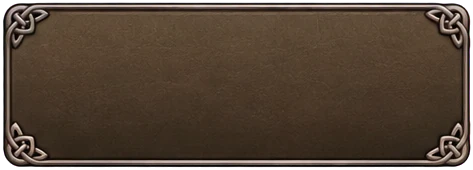
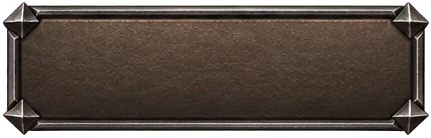
v4.91 框和按鈕改成叉叉鈕風格（斜切角＋金字塔尖刺，拿掉捲曲繩結）
Claude-Session: https://claude.ai/code/session_01SeUeF3GZXFJm3dfT74oQ9s

diff --git a/index.html b/index.html
@@ -2004,17 +2004,17 @@ body.dpv .hero .dp-firelit{position:absolute;inset:0;z-index:1;pointer-events:no
 .kvgrid [class*="elc-"]{color:var(--ec)}   /* v4.76 村莊詳情的屬性、弱點用屬性顏色 */
 
 /* v4.91 Mochi：程式畫的框線看起來廉價 → 沒有皮膚槽位的元件也換成 AI 細線框（素材 art/ui/ui491_*，皮膚槽位設定在 skin.js）
-   框：fr 暗銅／fr_on 金（選中）／fr_red 紅（危險）／fr_off 灰（鎖住、停用），角落雕花一樣大（15px）；fl* 是沒有雕花的細線框，給小元件用；cap* 是膠囊 */
+   框：fr 暗銅／fr_on 金（選中）／fr_red 紅（危險）／fr_off 灰（鎖住、停用），斜切角尖刺一樣大（10px）；fl* 是沒有雕花的細線框，給小元件用；cap* 是膠囊 */
 .sheet,.modal-card,.info-body{scrollbar-width:none}.sheet::-webkit-scrollbar,.modal-card::-webkit-scrollbar,.info-body::-webkit-scrollbar{display:none}   /* 小卡內容稍微超出時不顯示旁邊的捲動條（還是可以滑） */
-.wt:not(#_),.wt:is(.l0b,.l1b,.l2b,.l3b,.l4b,.l5b,.l6b,.posted):not(#_),.sg-day:not(#_),.matbox:not(#_),.wp-g>*:not(#_){border-color:transparent;border-image:url(art/ui/ui491_fr.webp) 50 / 15px stretch;box-shadow:none}
+.wt:not(#_),.wt:is(.l0b,.l1b,.l2b,.l3b,.l4b,.l5b,.l6b,.posted):not(#_),.sg-day:not(#_),.matbox:not(#_),.wp-g>*:not(#_){border-color:transparent;border-image:url(art/ui/ui491_fr.webp) 40 / 10px stretch;box-shadow:none}
 .wt.on:not(#_),.sg-day.today:not(#_){outline:none;border-image-source:url(art/ui/ui491_fr_on.webp)}
-.ev-st:not(#_),.enh-stage:not(#_){border-color:transparent;border-image:url(art/ui/ui491_fl.webp) 24 / 8px stretch;box-shadow:none}   /* 石碑和上面的數值格不加雕花，避免框裡套框太雜 */
+.ev-st:not(#_),.enh-stage:not(#_){border-color:transparent;border-image:url(art/ui/ui491_fl.webp) 38 / 9px stretch;box-shadow:none}   /* 石碑和上面的數值格不加雕花，避免框裡套框太雜 */
 .ev-st.risk:not(#_),.enh-stage.danger:not(#_){border-image-source:url(art/ui/ui491_fl_red.webp)}
-.ev-warn.risk:not(#_){border-color:transparent;border-image:url(art/ui/ui491_fl_red.webp) 24 / 8px stretch}
-.enh-more:not(#_),.cbar-in:not(#_){border-color:transparent;border-image:url(art/ui/ui491_fl.webp) 24 / 8px stretch;box-shadow:none}
-.vlocked:not(#_){border-style:solid;border-color:transparent;border-image:url(art/ui/ui491_fr_off.webp) 50 / 15px stretch}
-.ach-rw:not(#_),.res .chip:not(#_){border-color:transparent;border-image:url(art/ui/ui491_cap.webp) 53 / 30px stretch;background:#15110d;box-shadow:none}
-.sel select:not(#_){appearance:none;-webkit-appearance:none;border-color:transparent;border-image:url(art/ui/ui491_fl.webp) 24 / 8px stretch;background:url(art/ui/ui491_chev.webp) right 10px center/10px auto no-repeat,#15110d;padding-right:28px}
+.ev-warn.risk:not(#_){border-color:transparent;border-image:url(art/ui/ui491_fl_red.webp) 38 / 9px stretch}
+.enh-more:not(#_),.cbar-in:not(#_){border-color:transparent;border-image:url(art/ui/ui491_fl.webp) 38 / 9px stretch;box-shadow:none}
+.vlocked:not(#_){border-style:solid;border-color:transparent;border-image:url(art/ui/ui491_fr_off.webp) 40 / 10px stretch}
+.ach-rw:not(#_),.res .chip:not(#_){border-color:transparent;border-image:url(art/ui/ui491_cap.webp) 55 / 30px stretch;background:#15110d;box-shadow:none}
+.sel select:not(#_){appearance:none;-webkit-appearance:none;border-color:transparent;border-image:url(art/ui/ui491_fl.webp) 38 / 9px stretch;background:url(art/ui/ui491_chev.webp) right 10px center/10px auto no-repeat,#15110d;padding-right:28px}
 .sel select option{background:#16110d;color:var(--bone)}
 .info-btn:not(#_){border-color:transparent;background:url(art/ui/ui491_info.webp) center/100% 100% no-repeat;box-shadow:none}
 .wp-g>*:not(#_){padding:9px 13px}
@@ -2052,34 +2052,34 @@ body.dpv .hero .dp-firelit{position:absolute;inset:0;z-index:1;pointer-events:no
  * ===================================================================== */
 const UI_SKIN={
   // v4.91 Mochi：程式畫的框和按鈕看起來很廉價 → 換成 AI 細線框（拼圖：/mnt/project-files/ui-skin/v4.91/整合版_*）
-  //   規則：雕花只在四個角，所有元件的角落雕花都一樣大（圖框繪製寬度 ÷ 切片 ≈ 0.3）；框中間是空的，保留元件原本的深色底（Mochi：皮革底紋很醜，不用）
-  'btn-primary':{src:'art/ui/ui491_b_pri.webp',slice:[52,52,52,52],width:[15,15,15,15],css:'text-shadow:0 1px 2px #000,0 0 4px rgba(0,0,0,.85);padding-left:16px;padding-right:16px'},  'btn-primary:pressed':{src:'art/ui/ui491_b_pri_p.webp'},  'btn-primary:disabled':{src:'art/ui/ui491_b_pri_d.webp',css:'filter:none;opacity:1;color:#bdb3a2;text-shadow:0 1px 2px #000,0 0 4px rgba(0,0,0,.85)'},
-  'btn-primary-big':{src:'art/ui/ui491_b_pri.webp',slice:[52,52,52,52],width:[15,15,15,15],css:'text-shadow:0 1px 2px #000,0 0 4px rgba(0,0,0,.85);padding-left:16px;padding-right:16px'},  'btn-primary-big:pressed':{src:'art/ui/ui491_b_pri_p.webp'},  'btn-primary-big:disabled':{src:'art/ui/ui491_b_pri_d.webp',css:'filter:none;opacity:1;color:#bdb3a2;text-shadow:0 1px 2px #000,0 0 4px rgba(0,0,0,.85)'},
-  'btn-primary-compact':{src:'art/ui/ui491_b_pri.webp',slice:[52,52,52,52],width:[15,15,15,15],css:'text-shadow:0 1px 2px #000,0 0 4px rgba(0,0,0,.85);padding-left:16px;padding-right:16px'},  'btn-primary-compact:pressed':{src:'art/ui/ui491_b_pri_p.webp'},  'btn-primary-compact:disabled':{src:'art/ui/ui491_b_pri_d.webp',css:'filter:none;opacity:1;color:#bdb3a2;text-shadow:0 1px 2px #000,0 0 4px rgba(0,0,0,.85)'},
-  'btn-secondary':{src:'art/ui/ui491_b_sec.webp',slice:[52,52,52,52],width:[15,15,15,15],css:'text-shadow:0 1px 2px #000,0 0 4px rgba(0,0,0,.85);padding-left:16px;padding-right:16px'},  'btn-secondary:pressed':{src:'art/ui/ui491_b_sec_p.webp'},  'btn-secondary:disabled':{src:'art/ui/ui491_b_sec_d.webp',css:'filter:none;opacity:1;color:#bdb3a2;text-shadow:0 1px 2px #000,0 0 4px rgba(0,0,0,.85)'},
-  'btn-secondary-big':{src:'art/ui/ui491_b_sec.webp',slice:[52,52,52,52],width:[15,15,15,15],css:'text-shadow:0 1px 2px #000,0 0 4px rgba(0,0,0,.85);padding-left:16px;padding-right:16px'},  'btn-secondary-big:pressed':{src:'art/ui/ui491_b_sec_p.webp'},  'btn-secondary-big:disabled':{src:'art/ui/ui491_b_sec_d.webp',css:'filter:none;opacity:1;color:#bdb3a2;text-shadow:0 1px 2px #000,0 0 4px rgba(0,0,0,.85)'},
-  'btn-secondary-compact':{src:'art/ui/ui491_b_sec.webp',slice:[52,52,52,52],width:[15,15,15,15],css:'text-shadow:0 1px 2px #000,0 0 4px rgba(0,0,0,.85);padding-left:16px;padding-right:16px'},  'btn-secondary-compact:pressed':{src:'art/ui/ui491_b_sec_p.webp'},  'btn-secondary-compact:disabled':{src:'art/ui/ui491_b_sec_d.webp',css:'filter:none;opacity:1;color:#bdb3a2;text-shadow:0 1px 2px #000,0 0 4px rgba(0,0,0,.85)'},
-  'btn-danger':{src:'art/ui/ui491_b_dan.webp',slice:[52,52,52,52],width:[15,15,15,15],css:'text-shadow:0 1px 2px #000,0 0 4px rgba(0,0,0,.85);padding-left:16px;padding-right:16px'},  'btn-danger:pressed':{src:'art/ui/ui491_b_dan_p.webp'},  'btn-danger:disabled':{src:'art/ui/ui491_b_dan_d.webp',css:'filter:none;opacity:1;color:#bdb3a2;text-shadow:0 1px 2px #000,0 0 4px rgba(0,0,0,.85)'},
-  'btn-danger-big':{src:'art/ui/ui491_b_dan.webp',slice:[52,52,52,52],width:[15,15,15,15],css:'text-shadow:0 1px 2px #000,0 0 4px rgba(0,0,0,.85);padding-left:16px;padding-right:16px'},  'btn-danger-big:pressed':{src:'art/ui/ui491_b_dan_p.webp'},  'btn-danger-big:disabled':{src:'art/ui/ui491_b_dan_d.webp',css:'filter:none;opacity:1;color:#bdb3a2;text-shadow:0 1px 2px #000,0 0 4px rgba(0,0,0,.85)'},
-  'btn-danger-compact':{src:'art/ui/ui491_b_dan.webp',slice:[52,52,52,52],width:[15,15,15,15],css:'text-shadow:0 1px 2px #000,0 0 4px rgba(0,0,0,.85);padding-left:16px;padding-right:16px'},  'btn-danger-compact:pressed':{src:'art/ui/ui491_b_dan_p.webp'},  'btn-danger-compact:disabled':{src:'art/ui/ui491_b_dan_d.webp',css:'filter:none;opacity:1;color:#bdb3a2;text-shadow:0 1px 2px #000,0 0 4px rgba(0,0,0,.85)'},
-  'btn-chip':{src:'art/ui/ui491_cap.webp',slice:[53,53,53,53],width:[30,30,30,30],fill:false,css:'background:#15110d'},  'btn-chip:on':{src:'art/ui/ui491_cap_on.webp',css:'color:var(--gold-hi)'},
-  'btn-toggle':{src:'art/ui/ui491_fr.webp',slice:[50,50,50,50],width:[15,15,15,15],fill:false,bg:true},  'btn-toggle:on':{src:'art/ui/ui491_fr_on.webp'},
+  //   規則（Mochi：要像叉叉按鈕，不要捲曲繩結）：斜切角＋小金字塔尖刺只在四個角，所有元件的尖刺一樣大（圖框繪製寬度 ÷ 切片 ≈ 0.26）；框中間是空的，保留元件原本的深色底（Mochi：皮革底紋很醜，不用）
+  'btn-primary':{src:'art/ui/ui491_b_pri.webp',slice:[40,40,40,40],width:[11,11,11,11],css:'text-shadow:0 1px 2px #000,0 0 4px rgba(0,0,0,.85);padding-left:16px;padding-right:16px'},  'btn-primary:pressed':{src:'art/ui/ui491_b_pri_p.webp'},  'btn-primary:disabled':{src:'art/ui/ui491_b_pri_d.webp',css:'filter:none;opacity:1;color:#bdb3a2;text-shadow:0 1px 2px #000,0 0 4px rgba(0,0,0,.85)'},
+  'btn-primary-big':{src:'art/ui/ui491_b_pri.webp',slice:[40,40,40,40],width:[11,11,11,11],css:'text-shadow:0 1px 2px #000,0 0 4px rgba(0,0,0,.85);padding-left:16px;padding-right:16px'},  'btn-primary-big:pressed':{src:'art/ui/ui491_b_pri_p.webp'},  'btn-primary-big:disabled':{src:'art/ui/ui491_b_pri_d.webp',css:'filter:none;opacity:1;color:#bdb3a2;text-shadow:0 1px 2px #000,0 0 4px rgba(0,0,0,.85)'},
+  'btn-primary-compact':{src:'art/ui/ui491_b_pri.webp',slice:[40,40,40,40],width:[11,11,11,11],css:'text-shadow:0 1px 2px #000,0 0 4px rgba(0,0,0,.85);padding-left:16px;padding-right:16px'},  'btn-primary-compact:pressed':{src:'art/ui/ui491_b_pri_p.webp'},  'btn-primary-compact:disabled':{src:'art/ui/ui491_b_pri_d.webp',css:'filter:none;opacity:1;color:#bdb3a2;text-shadow:0 1px 2px #000,0 0 4px rgba(0,0,0,.85)'},
+  'btn-secondary':{src:'art/ui/ui491_b_sec.webp',slice:[40,40,40,40],width:[11,11,11,11],css:'text-shadow:0 1px 2px #000,0 0 4px rgba(0,0,0,.85);padding-left:16px;padding-right:16px'},  'btn-secondary:pressed':{src:'art/ui/ui491_b_sec_p.webp'},  'btn-secondary:disabled':{src:'art/ui/ui491_b_sec_d.webp',css:'filter:none;opacity:1;color:#bdb3a2;text-shadow:0 1px 2px #000,0 0 4px rgba(0,0,0,.85)'},
+  'btn-secondary-big':{src:'art/ui/ui491_b_sec.webp',slice:[40,40,40,40],width:[11,11,11,11],css:'text-shadow:0 1px 2px #000,0 0 4px rgba(0,0,0,.85);padding-left:16px;padding-right:16px'},  'btn-secondary-big:pressed':{src:'art/ui/ui491_b_sec_p.webp'},  'btn-secondary-big:disabled':{src:'art/ui/ui491_b_sec_d.webp',css:'filter:none;opacity:1;color:#bdb3a2;text-shadow:0 1px 2px #000,0 0 4px rgba(0,0,0,.85)'},
+  'btn-secondary-compact':{src:'art/ui/ui491_b_sec.webp',slice:[40,40,40,40],width:[11,11,11,11],css:'text-shadow:0 1px 2px #000,0 0 4px rgba(0,0,0,.85);padding-left:16px;padding-right:16px'},  'btn-secondary-compact:pressed':{src:'art/ui/ui491_b_sec_p.webp'},  'btn-secondary-compact:disabled':{src:'art/ui/ui491_b_sec_d.webp',css:'filter:none;opacity:1;color:#bdb3a2;text-shadow:0 1px 2px #000,0 0 4px rgba(0,0,0,.85)'},
+  'btn-danger':{src:'art/ui/ui491_b_dan.webp',slice:[40,40,40,40],width:[11,11,11,11],css:'text-shadow:0 1px 2px #000,0 0 4px rgba(0,0,0,.85);padding-left:16px;padding-right:16px'},  'btn-danger:pressed':{src:'art/ui/ui491_b_dan_p.webp'},  'btn-danger:disabled':{src:'art/ui/ui491_b_dan_d.webp',css:'filter:none;opacity:1;color:#bdb3a2;text-shadow:0 1px 2px #000,0 0 4px rgba(0,0,0,.85)'},
+  'btn-danger-big':{src:'art/ui/ui491_b_dan.webp',slice:[40,40,40,40],width:[11,11,11,11],css:'text-shadow:0 1px 2px #000,0 0 4px rgba(0,0,0,.85);padding-left:16px;padding-right:16px'},  'btn-danger-big:pressed':{src:'art/ui/ui491_b_dan_p.webp'},  'btn-danger-big:disabled':{src:'art/ui/ui491_b_dan_d.webp',css:'filter:none;opacity:1;color:#bdb3a2;text-shadow:0 1px 2px #000,0 0 4px rgba(0,0,0,.85)'},
+  'btn-danger-compact':{src:'art/ui/ui491_b_dan.webp',slice:[40,40,40,40],width:[11,11,11,11],css:'text-shadow:0 1px 2px #000,0 0 4px rgba(0,0,0,.85);padding-left:16px;padding-right:16px'},  'btn-danger-compact:pressed':{src:'art/ui/ui491_b_dan_p.webp'},  'btn-danger-compact:disabled':{src:'art/ui/ui491_b_dan_d.webp',css:'filter:none;opacity:1;color:#bdb3a2;text-shadow:0 1px 2px #000,0 0 4px rgba(0,0,0,.85)'},
+  'btn-chip':{src:'art/ui/ui491_cap.webp',slice:[55,55,55,55],width:[30,30,30,30],fill:false,css:'background:#15110d'},  'btn-chip:on':{src:'art/ui/ui491_cap_on.webp',css:'color:var(--gold-hi)'},
+  'btn-toggle':{src:'art/ui/ui491_fr.webp',slice:[40,40,40,40],width:[10,10,10,10],fill:false,bg:true},  'btn-toggle:on':{src:'art/ui/ui491_fr_on.webp'},
   'btn-accent':null,            'btn-accent:pressed':null,
   'btn-icon':null,              'btn-icon:pressed':null,
-  'tab':{src:'art/ui/ui491_fr.webp',slice:[50,50,50,50],width:[15,15,15,15],fill:false,bg:true},  'tab:on':{src:'art/ui/ui491_fr_on.webp'},
+  'tab':{src:'art/ui/ui491_fr.webp',slice:[40,40,40,40],width:[10,10,10,10],fill:false,bg:true},  'tab:on':{src:'art/ui/ui491_fr_on.webp'},
   // 面板與卡片
-  'panel':{src:'art/ui/ui491_fr.webp',slice:[50,50,50,50],width:[15,15,15,15],fill:false,bg:true},
+  'panel':{src:'art/ui/ui491_fr.webp',slice:[40,40,40,40],width:[10,10,10,10],fill:false,bg:true},
   'title':null,
-  'card':{src:'art/ui/ui491_fr.webp',slice:[50,50,50,50],width:[15,15,15,15],fill:false,bg:true},  'card:on':{src:'art/ui/ui491_fr_on.webp'},
-  'card-compact':{src:'art/ui/ui491_fr.webp',slice:[50,50,50,50],width:[15,15,15,15],fill:false,bg:true},  'card-compact:on':{src:'art/ui/ui491_fr_on.webp'},
+  'card':{src:'art/ui/ui491_fr.webp',slice:[40,40,40,40],width:[10,10,10,10],fill:false,bg:true},  'card:on':{src:'art/ui/ui491_fr_on.webp'},
+  'card-compact':{src:'art/ui/ui491_fr.webp',slice:[40,40,40,40],width:[10,10,10,10],fill:false,bg:true},  'card-compact:on':{src:'art/ui/ui491_fr_on.webp'},
   'card-feature':null,
-  'card-option':{src:'art/ui/ui491_fr.webp',slice:[50,50,50,50],width:[15,15,15,15],fill:false,bg:true},  'card-option:on':{src:'art/ui/ui491_fr_on.webp'},
-  'card-row':{src:'art/ui/ui491_fr.webp',slice:[50,50,50,50],width:[15,15,15,15],fill:false,bg:true},
+  'card-option':{src:'art/ui/ui491_fr.webp',slice:[40,40,40,40],width:[10,10,10,10],fill:false,bg:true},  'card-option:on':{src:'art/ui/ui491_fr_on.webp'},
+  'card-row':{src:'art/ui/ui491_fr.webp',slice:[40,40,40,40],width:[10,10,10,10],fill:false,bg:true},
   'badge':null,
   'prog':null,                  'prog-fill':null,
   // 視窗與常駐列
-  'sheet':{src:'art/ui/ui491_fr_modal.webp',slice:[50,50,50,50],width:[17,17,17,17],fill:false,bg:true},
-  'modal':{src:'art/ui/ui491_fr_modal.webp',slice:[50,50,50,50],width:[17,17,17,17],fill:false,bg:true},
+  'sheet':{src:'art/ui/ui491_fr.webp',slice:[40,40,40,40],width:[11,11,11,11],fill:false,bg:true},
+  'modal':{src:'art/ui/ui491_fr.webp',slice:[40,40,40,40],width:[11,11,11,11],fill:false,bg:true},
   'toast':null,
   'topbar':null,
   'navbar':null,

diff --git a/src/skin.js b/src/skin.js
@@ -21,34 +21,34 @@
  * ===================================================================== */
 const UI_SKIN={
   // v4.91 Mochi：程式畫的框和按鈕看起來很廉價 → 換成 AI 細線框（拼圖：/mnt/project-files/ui-skin/v4.91/整合版_*）
-  //   規則：雕花只在四個角，所有元件的角落雕花都一樣大（圖框繪製寬度 ÷ 切片 ≈ 0.3）；框中間是空的，保留元件原本的深色底（Mochi：皮革底紋很醜，不用）
-  'btn-primary':{src:'art/ui/ui491_b_pri.webp',slice:[52,52,52,52],width:[15,15,15,15],css:'text-shadow:0 1px 2px #000,0 0 4px rgba(0,0,0,.85);padding-left:16px;padding-right:16px'},  'btn-primary:pressed':{src:'art/ui/ui491_b_pri_p.webp'},  'btn-primary:disabled':{src:'art/ui/ui491_b_pri_d.webp',css:'filter:none;opacity:1;color:#bdb3a2;text-shadow:0 1px 2px #000,0 0 4px rgba(0,0,0,.85)'},
-  'btn-primary-big':{src:'art/ui/ui491_b_pri.webp',slice:[52,52,52,52],width:[15,15,15,15],css:'text-shadow:0 1px 2px #000,0 0 4px rgba(0,0,0,.85);padding-left:16px;padding-right:16px'},  'btn-primary-big:pressed':{src:'art/ui/ui491_b_pri_p.webp'},  'btn-primary-big:disabled':{src:'art/ui/ui491_b_pri_d.webp',css:'filter:none;opacity:1;color:#bdb3a2;text-shadow:0 1px 2px #000,0 0 4px rgba(0,0,0,.85)'},
-  'btn-primary-compact':{src:'art/ui/ui491_b_pri.webp',slice:[52,52,52,52],width:[15,15,15,15],css:'text-shadow:0 1px 2px #000,0 0 4px rgba(0,0,0,.85);padding-left:16px;padding-right:16px'},  'btn-primary-compact:pressed':{src:'art/ui/ui491_b_pri_p.webp'},  'btn-primary-compact:disabled':{src:'art/ui/ui491_b_pri_d.webp',css:'filter:none;opacity:1;color:#bdb3a2;text-shadow:0 1px 2px #000,0 0 4px rgba(0,0,0,.85)'},
-  'btn-secondary':{src:'art/ui/ui491_b_sec.webp',slice:[52,52,52,52],width:[15,15,15,15],css:'text-shadow:0 1px 2px #000,0 0 4px rgba(0,0,0,.85);padding-left:16px;padding-right:16px'},  'btn-secondary:pressed':{src:'art/ui/ui491_b_sec_p.webp'},  'btn-secondary:disabled':{src:'art/ui/ui491_b_sec_d.webp',css:'filter:none;opacity:1;color:#bdb3a2;text-shadow:0 1px 2px #000,0 0 4px rgba(0,0,0,.85)'},
-  'btn-secondary-big':{src:'art/ui/ui491_b_sec.webp',slice:[52,52,52,52],width:[15,15,15,15],css:'text-shadow:0 1px 2px #000,0 0 4px rgba(0,0,0,.85);padding-left:16px;padding-right:16px'},  'btn-secondary-big:pressed':{src:'art/ui/ui491_b_sec_p.webp'},  'btn-secondary-big:disabled':{src:'art/ui/ui491_b_sec_d.webp',css:'filter:none;opacity:1;color:#bdb3a2;text-shadow:0 1px 2px #000,0 0 4px rgba(0,0,0,.85)'},
-  'btn-secondary-compact':{src:'art/ui/ui491_b_sec.webp',slice:[52,52,52,52],width:[15,15,15,15],css:'text-shadow:0 1px 2px #000,0 0 4px rgba(0,0,0,.85);padding-left:16px;padding-right:16px'},  'btn-secondary-compact:pressed':{src:'art/ui/ui491_b_sec_p.webp'},  'btn-secondary-compact:disabled':{src:'art/ui/ui491_b_sec_d.webp',css:'filter:none;opacity:1;color:#bdb3a2;text-shadow:0 1px 2px #000,0 0 4px rgba(0,0,0,.85)'},
-  'btn-danger':{src:'art/ui/ui491_b_dan.webp',slice:[52,52,52,52],width:[15,15,15,15],css:'text-shadow:0 1px 2px #000,0 0 4px rgba(0,0,0,.85);padding-left:16px;padding-right:16px'},  'btn-danger:pressed':{src:'art/ui/ui491_b_dan_p.webp'},  'btn-danger:disabled':{src:'art/ui/ui491_b_dan_d.webp',css:'filter:none;opacity:1;color:#bdb3a2;text-shadow:0 1px 2px #000,0 0 4px rgba(0,0,0,.85)'},
-  'btn-danger-big':{src:'art/ui/ui491_b_dan.webp',slice:[52,52,52,52],width:[15,15,15,15],css:'text-shadow:0 1px 2px #000,0 0 4px rgba(0,0,0,.85);padding-left:16px;padding-right:16px'},  'btn-danger-big:pressed':{src:'art/ui/ui491_b_dan_p.webp'},  'btn-danger-big:disabled':{src:'art/ui/ui491_b_dan_d.webp',css:'filter:none;opacity:1;color:#bdb3a2;text-shadow:0 1px 2px #000,0 0 4px rgba(0,0,0,.85)'},
-  'btn-danger-compact':{src:'art/ui/ui491_b_dan.webp',slice:[52,52,52,52],width:[15,15,15,15],css:'text-shadow:0 1px 2px #000,0 0 4px rgba(0,0,0,.85);padding-left:16px;padding-right:16px'},  'btn-danger-compact:pressed':{src:'art/ui/ui491_b_dan_p.webp'},  'btn-danger-compact:disabled':{src:'art/ui/ui491_b_dan_d.webp',css:'filter:none;opacity:1;color:#bdb3a2;text-shadow:0 1px 2px #000,0 0 4px rgba(0,0,0,.85)'},
-  'btn-chip':{src:'art/ui/ui491_cap.webp',slice:[53,53,53,53],width:[30,30,30,30],fill:false,css:'background:#15110d'},  'btn-chip:on':{src:'art/ui/ui491_cap_on.webp',css:'color:var(--gold-hi)'},
-  'btn-toggle':{src:'art/ui/ui491_fr.webp',slice:[50,50,50,50],width:[15,15,15,15],fill:false,bg:true},  'btn-toggle:on':{src:'art/ui/ui491_fr_on.webp'},
+  //   規則（Mochi：要像叉叉按鈕，不要捲曲繩結）：斜切角＋小金字塔尖刺只在四個角，所有元件的尖刺一樣大（圖框繪製寬度 ÷ 切片 ≈ 0.26）；框中間是空的，保留元件原本的深色底（Mochi：皮革底紋很醜，不用）
+  'btn-primary':{src:'art/ui/ui491_b_pri.webp',slice:[40,40,40,40],width:[11,11,11,11],css:'text-shadow:0 1px 2px #000,0 0 4px rgba(0,0,0,.85);padding-left:16px;padding-right:16px'},  'btn-primary:pressed':{src:'art/ui/ui491_b_pri_p.webp'},  'btn-primary:disabled':{src:'art/ui/ui491_b_pri_d.webp',css:'filter:none;opacity:1;color:#bdb3a2;text-shadow:0 1px 2px #000,0 0 4px rgba(0,0,0,.85)'},
+  'btn-primary-big':{src:'art/ui/ui491_b_pri.webp',slice:[40,40,40,40],width:[11,11,11,11],css:'text-shadow:0 1px 2px #000,0 0 4px rgba(0,0,0,.85);padding-left:16px;padding-right:16px'},  'btn-primary-big:pressed':{src:'art/ui/ui491_b_pri_p.webp'},  'btn-primary-big:disabled':{src:'art/ui/ui491_b_pri_d.webp',css:'filter:none;opacity:1;color:#bdb3a2;text-shadow:0 1px 2px #000,0 0 4px rgba(0,0,0,.85)'},
+  'btn-primary-compact':{src:'art/ui/ui491_b_pri.webp',slice:[40,40,40,40],width:[11,11,11,11],css:'text-shadow:0 1px 2px #000,0 0 4px rgba(0,0,0,.85);padding-left:16px;padding-right:16px'},  'btn-primary-compact:pressed':{src:'art/ui/ui491_b_pri_p.webp'},  'btn-primary-compact:disabled':{src:'art/ui/ui491_b_pri_d.webp',css:'filter:none;opacity:1;color:#bdb3a2;text-shadow:0 1px 2px #000,0 0 4px rgba(0,0,0,.85)'},
+  'btn-secondary':{src:'art/ui/ui491_b_sec.webp',slice:[40,40,40,40],width:[11,11,11,11],css:'text-shadow:0 1px 2px #000,0 0 4px rgba(0,0,0,.85);padding-left:16px;padding-right:16px'},  'btn-secondary:pressed':{src:'art/ui/ui491_b_sec_p.webp'},  'btn-secondary:disabled':{src:'art/ui/ui491_b_sec_d.webp',css:'filter:none;opacity:1;color:#bdb3a2;text-shadow:0 1px 2px #000,0 0 4px rgba(0,0,0,.85)'},
+  'btn-secondary-big':{src:'art/ui/ui491_b_sec.webp',slice:[40,40,40,40],width:[11,11,11,11],css:'text-shadow:0 1px 2px #000,0 0 4px rgba(0,0,0,.85);padding-left:16px;padding-right:16px'},  'btn-secondary-big:pressed':{src:'art/ui/ui491_b_sec_p.webp'},  'btn-secondary-big:disabled':{src:'art/ui/ui491_b_sec_d.webp',css:'filter:none;opacity:1;color:#bdb3a2;text-shadow:0 1px 2px #000,0 0 4px rgba(0,0,0,.85)'},
+  'btn-secondary-compact':{src:'art/ui/ui491_b_sec.webp',slice:[40,40,40,40],width:[11,11,11,11],css:'text-shadow:0 1px 2px #000,0 0 4px rgba(0,0,0,.85);padding-left:16px;padding-right:16px'},  'btn-secondary-compact:pressed':{src:'art/ui/ui491_b_sec_p.webp'},  'btn-secondary-compact:disabled':{src:'art/ui/ui491_b_sec_d.webp',css:'filter:none;opacity:1;color:#bdb3a2;text-shadow:0 1px 2px #000,0 0 4px rgba(0,0,0,.85)'},
+  'btn-danger':{src:'art/ui/ui491_b_dan.webp',slice:[40,40,40,40],width:[11,11,11,11],css:'text-shadow:0 1px 2px #000,0 0 4px rgba(0,0,0,.85);padding-left:16px;padding-right:16px'},  'btn-danger:pressed':{src:'art/ui/ui491_b_dan_p.webp'},  'btn-danger:disabled':{src:'art/ui/ui491_b_dan_d.webp',css:'filter:none;opacity:1;color:#bdb3a2;text-shadow:0 1px 2px #000,0 0 4px rgba(0,0,0,.85)'},
+  'btn-danger-big':{src:'art/ui/ui491_b_dan.webp',slice:[40,40,40,40],width:[11,11,11,11],css:'text-shadow:0 1px 2px #000,0 0 4px rgba(0,0,0,.85);padding-left:16px;padding-right:16px'},  'btn-danger-big:pressed':{src:'art/ui/ui491_b_dan_p.webp'},  'btn-danger-big:disabled':{src:'art/ui/ui491_b_dan_d.webp',css:'filter:none;opacity:1;color:#bdb3a2;text-shadow:0 1px 2px #000,0 0 4px rgba(0,0,0,.85)'},
+  'btn-danger-compact':{src:'art/ui/ui491_b_dan.webp',slice:[40,40,40,40],width:[11,11,11,11],css:'text-shadow:0 1px 2px #000,0 0 4px rgba(0,0,0,.85);padding-left:16px;padding-right:16px'},  'btn-danger-compact:pressed':{src:'art/ui/ui491_b_dan_p.webp'},  'btn-danger-compact:disabled':{src:'art/ui/ui491_b_dan_d.webp',css:'filter:none;opacity:1;color:#bdb3a2;text-shadow:0 1px 2px #000,0 0 4px rgba(0,0,0,.85)'},
+  'btn-chip':{src:'art/ui/ui491_cap.webp',slice:[55,55,55,55],width:[30,30,30,30],fill:false,css:'background:#15110d'},  'btn-chip:on':{src:'art/ui/ui491_cap_on.webp',css:'color:var(--gold-hi)'},
+  'btn-toggle':{src:'art/ui/ui491_fr.webp',slice:[40,40,40,40],width:[10,10,10,10],fill:false,bg:true},  'btn-toggle:on':{src:'art/ui/ui491_fr_on.webp'},
   'btn-accent':null,            'btn-accent:pressed':null,
   'btn-icon':null,              'btn-icon:pressed':null,
-  'tab':{src:'art/ui/ui491_fr.webp',slice:[50,50,50,50],width:[15,15,15,15],fill:false,bg:true},  'tab:on':{src:'art/ui/ui491_fr_on.webp'},
+  'tab':{src:'art/ui/ui491_fr.webp',slice:[40,40,40,40],width:[10,10,10,10],fill:false,bg:true},  'tab:on':{src:'art/ui/ui491_fr_on.webp'},
   // 面板與卡片
-  'panel':{src:'art/ui/ui491_fr.webp',slice:[50,50,50,50],width:[15,15,15,15],fill:false,bg:true},
+  'panel':{src:'art/ui/ui491_fr.webp',slice:[40,40,40,40],width:[10,10,10,10],fill:false,bg:true},
   'title':null,
-  'card':{src:'art/ui/ui491_fr.webp',slice:[50,50,50,50],width:[15,15,15,15],fill:false,bg:true},  'card:on':{src:'art/ui/ui491_fr_on.webp'},
-  'card-compact':{src:'art/ui/ui491_fr.webp',slice:[50,50,50,50],width:[15,15,15,15],fill:false,bg:true},  'card-compact:on':{src:'art/ui/ui491_fr_on.webp'},
+  'card':{src:'art/ui/ui491_fr.webp',slice:[40,40,40,40],width:[10,10,10,10],fill:false,bg:true},  'card:on':{src:'art/ui/ui491_fr_on.webp'},
+  'card-compact':{src:'art/ui/ui491_fr.webp',slice:[40,40,40,40],width:[10,10,10,10],fill:false,bg:true},  'card-compact:on':{src:'art/ui/ui491_fr_on.webp'},
   'card-feature':null,
-  'card-option':{src:'art/ui/ui491_fr.webp',slice:[50,50,50,50],width:[15,15,15,15],fill:false,bg:true},  'card-option:on':{src:'art/ui/ui491_fr_on.webp'},
-  'card-row':{src:'art/ui/ui491_fr.webp',slice:[50,50,50,50],width:[15,15,15,15],fill:false,bg:true},
+  'card-option':{src:'art/ui/ui491_fr.webp',slice:[40,40,40,40],width:[10,10,10,10],fill:false,bg:true},  'card-option:on':{src:'art/ui/ui491_fr_on.webp'},
+  'card-row':{src:'art/ui/ui491_fr.webp',slice:[40,40,40,40],width:[10,10,10,10],fill:false,bg:true},
   'badge':null,
   'prog':null,                  'prog-fill':null,
   // 視窗與常駐列
-  'sheet':{src:'art/ui/ui491_fr_modal.webp',slice:[50,50,50,50],width:[17,17,17,17],fill:false,bg:true},
-  'modal':{src:'art/ui/ui491_fr_modal.webp',slice:[50,50,50,50],width:[17,17,17,17],fill:false,bg:true},
+  'sheet':{src:'art/ui/ui491_fr.webp',slice:[40,40,40,40],width:[11,11,11,11],fill:false,bg:true},
+  'modal':{src:'art/ui/ui491_fr.webp',slice:[40,40,40,40],width:[11,11,11,11],fill:false,bg:true},
   'toast':null,
   'topbar':null,
   'navbar':null,

diff --git a/src/style.css b/src/style.css
@@ -1988,17 +1988,17 @@ body.dpv .hero .dp-firelit{position:absolute;inset:0;z-index:1;pointer-events:no
 .kvgrid [class*="elc-"]{color:var(--ec)}   /* v4.76 村莊詳情的屬性、弱點用屬性顏色 */
 
 /* v4.91 Mochi：程式畫的框線看起來廉價 → 沒有皮膚槽位的元件也換成 AI 細線框（素材 art/ui/ui491_*，皮膚槽位設定在 skin.js）
-   框：fr 暗銅／fr_on 金（選中）／fr_red 紅（危險）／fr_off 灰（鎖住、停用），角落雕花一樣大（15px）；fl* 是沒有雕花的細線框，給小元件用；cap* 是膠囊 */
+   框：fr 暗銅／fr_on 金（選中）／fr_red 紅（危險）／fr_off 灰（鎖住、停用），斜切角尖刺一樣大（10px）；fl* 是沒有雕花的細線框，給小元件用；cap* 是膠囊 */
 .sheet,.modal-card,.info-body{scrollbar-width:none}.sheet::-webkit-scrollbar,.modal-card::-webkit-scrollbar,.info-body::-webkit-scrollbar{display:none}   /* 小卡內容稍微超出時不顯示旁邊的捲動條（還是可以滑） */
-.wt:not(#_),.wt:is(.l0b,.l1b,.l2b,.l3b,.l4b,.l5b,.l6b,.posted):not(#_),.sg-day:not(#_),.matbox:not(#_),.wp-g>*:not(#_){border-color:transparent;border-image:url(art/ui/ui491_fr.webp) 50 / 15px stretch;box-shadow:none}
+.wt:not(#_),.wt:is(.l0b,.l1b,.l2b,.l3b,.l4b,.l5b,.l6b,.posted):not(#_),.sg-day:not(#_),.matbox:not(#_),.wp-g>*:not(#_){border-color:transparent;border-image:url(art/ui/ui491_fr.webp) 40 / 10px stretch;box-shadow:none}
 .wt.on:not(#_),.sg-day.today:not(#_){outline:none;border-image-source:url(art/ui/ui491_fr_on.webp)}
-.ev-st:not(#_),.enh-stage:not(#_){border-color:transparent;border-image:url(art/ui/ui491_fl.webp) 24 / 8px stretch;box-shadow:none}   /* 石碑和上面的數值格不加雕花，避免框裡套框太雜 */
+.ev-st:not(#_),.enh-stage:not(#_){border-color:transparent;border-image:url(art/ui/ui491_fl.webp) 38 / 9px stretch;box-shadow:none}   /* 石碑和上面的數值格不加雕花，避免框裡套框太雜 */
 .ev-st.risk:not(#_),.enh-stage.danger:not(#_){border-image-source:url(art/ui/ui491_fl_red.webp)}
-.ev-warn.risk:not(#_){border-color:transparent;border-image:url(art/ui/ui491_fl_red.webp) 24 / 8px stretch}
-.enh-more:not(#_),.cbar-in:not(#_){border-color:transparent;border-image:url(art/ui/ui491_fl.webp) 24 / 8px stretch;box-shadow:none}
-.vlocked:not(#_){border-style:solid;border-color:transparent;border-image:url(art/ui/ui491_fr_off.webp) 50 / 15px stretch}
-.ach-rw:not(#_),.res .chip:not(#_){border-color:transparent;border-image:url(art/ui/ui491_cap.webp) 53 / 30px stretch;background:#15110d;box-shadow:none}
-.sel select:not(#_){appearance:none;-webkit-appearance:none;border-color:transparent;border-image:url(art/ui/ui491_fl.webp) 24 / 8px stretch;background:url(art/ui/ui491_chev.webp) right 10px center/10px auto no-repeat,#15110d;padding-right:28px}
+.ev-warn.risk:not(#_){border-color:transparent;border-image:url(art/ui/ui491_fl_red.webp) 38 / 9px stretch}
+.enh-more:not(#_),.cbar-in:not(#_){border-color:transparent;border-image:url(art/ui/ui491_fl.webp) 38 / 9px stretch;box-shadow:none}
+.vlocked:not(#_){border-style:solid;border-color:transparent;border-image:url(art/ui/ui491_fr_off.webp) 40 / 10px stretch}
+.ach-rw:not(#_),.res .chip:not(#_){border-color:transparent;border-image:url(art/ui/ui491_cap.webp) 55 / 30px stretch;background:#15110d;box-shadow:none}
+.sel select:not(#_){appearance:none;-webkit-appearance:none;border-color:transparent;border-image:url(art/ui/ui491_fl.webp) 38 / 9px stretch;background:url(art/ui/ui491_chev.webp) right 10px center/10px auto no-repeat,#15110d;padding-right:28px}
 .sel select option{background:#16110d;color:var(--bone)}
 .info-btn:not(#_){border-color:transparent;background:url(art/ui/ui491_info.webp) center/100% 100% no-repeat;box-shadow:none}
 .wp-g>*:not(#_){padding:9px 13px}
